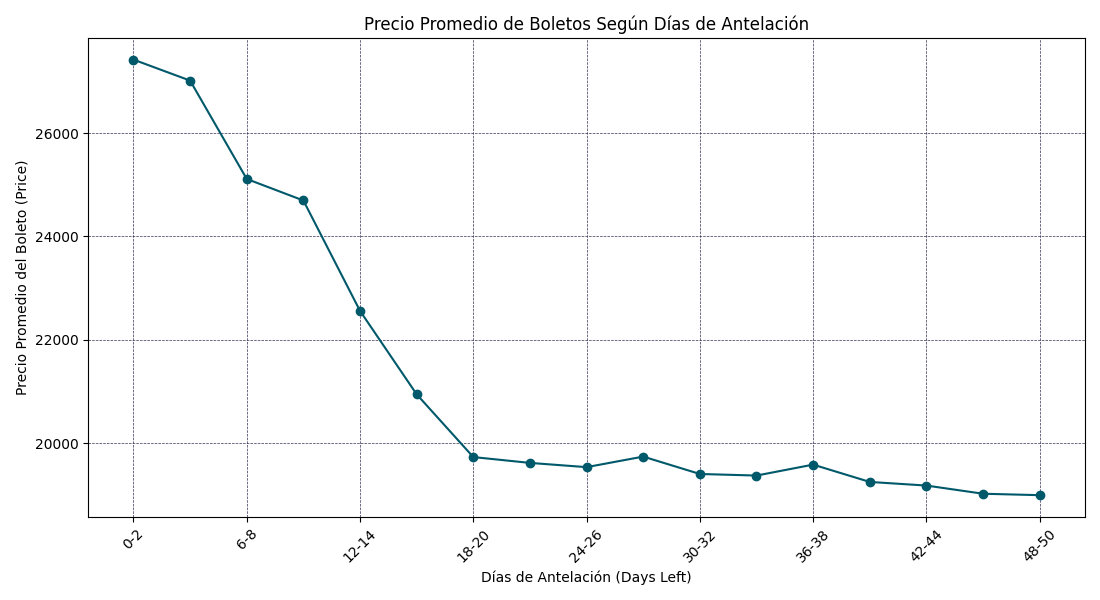
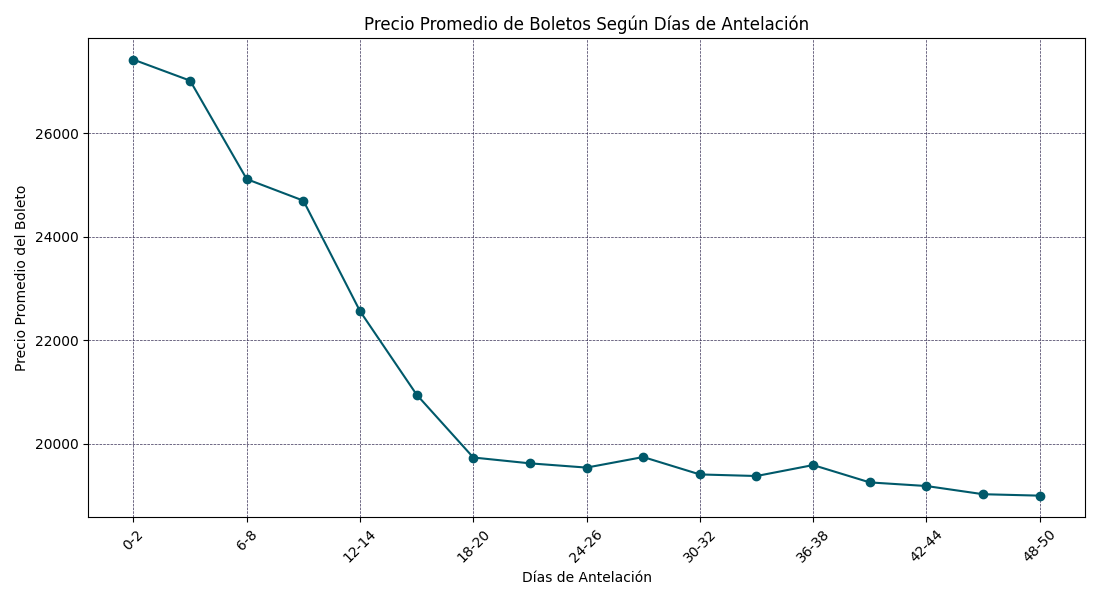
Correccion de nombres

diff --git a/scripts/avg_price_airline.py b/scripts/avg_price_airline.py
@@ -1,14 +1,24 @@
 from .bar_graph import gen_bar
 
+"""
+Se observa que:
 
+* Variaciones de precios:
+    - Vistara y Air India tienen los precios promedio de boletos más altos
+    - SpiceJet, GO FIRST, Indigo, y AirAsia tienen precios promedio significativamente más bajos
+
+* Cmpetencia:
+    - Las aerolíneas más económicas, como SpiceJet, GO FIRST, e Indigo, parecen tener precios similares, sugiriendo competencia directa entre ellas
+
+"""
 def graph_gen(data, colors, size=(), img=False):
     data_graph = data.groupby('airline')['price'].mean().reset_index()
     data_graph = data_graph.sort_values(by='price', ascending=False)
 
     info_graph = {
-        'title' : 'Precio promedio general de boleto por aerolinea',
-        'x_name' : 'Aerolineas',
-        'y_name' : 'Precios (INR)',
+        'title' : 'Precio medio del boleto por aerolínea',
+        'x_name' : 'Aerolínea',
+        'y_name' : 'Precio (INR)',
         'x_data' : 'airline',
         'y_data' : 'price'
     }

diff --git a/main.py b/main.py
@@ -6,12 +6,19 @@ data = pd.read_csv('./data/Clean_Dataset.csv')
 
 palette_colors = ['#00a5c4', '#00596a', '#d5f4f4', '#738484', '#a172a5', '#573e59', '#63529b', '#352c53']
 
-#trends_from_destination_cities.graph_gen(data, palette_colors, (11,6), True)
+avg_price_airline.graph_gen(data, palette_colors, (8,6), True)
 
-#airline_popularity.graph_gen(data, palette_colors, (8,6), True)
+airline_popularity.graph_gen(data, palette_colors, (8,6), True)
 
-#avg_price_airline.graph_gen(data, palette_colors, (8,6), True)
+price_1_vs_2_days_depature.graph_gen(data, palette_colors, (8,6), True)
 
-#price_1_vs_2_days_depature.graph_gen(data, palette_colors, (8,6), True)
+price_days_left.graph_gen(data, palette_colors, (11,6), True)
 
-#price_days_left.graph_gen(data, palette_colors, (11,6), True)
+trends_from_destination_cities.graph_gen(data, palette_colors, (11,6), True)
+
+
+
+
+
+
+

diff --git a/scripts/price_1_vs_2_days_depature.py b/scripts/price_1_vs_2_days_depature.py
@@ -5,7 +5,7 @@ def graph_gen(data, colors, size=(), img=False):
     data_filtered = data[data['days_left'].isin([1, 2])]
 
     info_graph = {
-        'title': 'Distribución de precios de billetes de 1 y 2 días antes de la salida',
+        'title': 'Distribución de precios de boletos para 1 y 2 días antes de la salida',
         'x_name': 'Precio (INR)',
         'y_name': 'N° Tickets (frecuencia)'
     }

diff --git a/scripts/airline_popularity.py b/scripts/airline_popularity.py
@@ -5,8 +5,8 @@ def graph_gen(data, colors, size=(), img=False):
     data_graph = data['airline'].value_counts()
 
     info_graph = {
-        'title' : 'Número de reservas por aerolinea',
-        'x_name' : 'Aerolineas',
+        'title' : 'Número de reservas por aerolínea',
+        'x_name' : 'Aerolínea',
         'y_name' : 'N° de reservas'
     }
     
